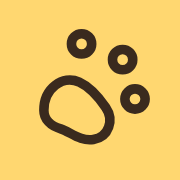
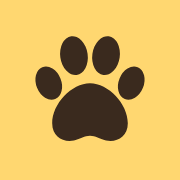
Ny logga och tassikon: klassisk fylld tass (alternativ 1)
Claude-Session: https://claude.ai/code/session_01V1fTqnpYU1gmCHHsLQa4s1

Changed region(s): [[0.1944, 0.1389, 0.8333, 0.8056]]

diff --git a/docs/app.js b/docs/app.js
@@ -83,8 +83,8 @@ function countrySel(id,val){const loc=S.lang==='en'?'en':'sv';const list=COUNTRI
 try{const l=localStorage.getItem('dh-lang');if(l==='en'||l==='sv')S.lang=l;const c=localStorage.getItem('dh-country');if(c&&COUNTRIES.some(x=>x.c===c))S.country=c}catch(e){}
 const t=k=>(T[k]?T[k][S.lang==='en'?1:0]:k);
 const today=()=>new Date().toISOString().slice(0,10);
-const emptyCard=(ti,su)=>`<div class="empty">${sz(paw,46).replace('stroke="#3A2A1E" stroke-opacity=".45"','stroke="#F4806B"')}<b>${ti}</b><span>${su}</span></div>`;
-const paw='<svg width="36" height="36" viewBox="0 0 24 24" fill="none" stroke="#3A2A1E" stroke-opacity=".45" stroke-width="1.7" stroke-linecap="round" stroke-linejoin="round" aria-hidden="true"><circle cx="10.5" cy="3.8" r="1.8"/><circle cx="17.8" cy="6.6" r="1.8"/><circle cx="20" cy="13.6" r="1.8"/><path d="M3.8 15.6c0-3.9 3.3-6.3 6.3-5 2 .9 3.6 2.9 4.7 4.5 1.5 2.2.6 5.2-2.2 5.7-2.3.4-4.2-1.4-5.8-1.9-1.8-.5-3-1.7-3-3.3z"/></svg>';
+const emptyCard=(ti,su)=>`<div class="empty">${sz(paw,46).replace('fill="#3A2A1E" fill-opacity=".45"','fill="#F4806B"')}<b>${ti}</b><span>${su}</span></div>`;
+const paw='<svg width="36" height="36" viewBox="5 6 54 52" fill="#3A2A1E" fill-opacity=".45" aria-hidden="true"><ellipse cx="14" cy="29" rx="5.5" ry="7.5" transform="rotate(-22 14 29)"/><ellipse cx="25" cy="17" rx="6" ry="8.5" transform="rotate(-8 25 17)"/><ellipse cx="39" cy="17" rx="6" ry="8.5" transform="rotate(8 39 17)"/><ellipse cx="50" cy="29" rx="5.5" ry="7.5" transform="rotate(22 50 29)"/><path d="M32 29c-8 0-16.5 9-16.5 17.5 0 6 5 8.5 9.5 7.5 3-.7 4.5-2 7-2s4 1.3 7 2c4.5 1 9.5-1.5 9.5-7.5C48.5 38 40 29 32 29z"/></svg>';
 const sz=(svg,n)=>svg.replace(/width="\d+" height="\d+"/,`width="${n}" height="${n}"`);
 const ic={back:'<svg width="22" height="22" viewBox="0 0 24 24" fill="none" stroke="#3A2A1E" stroke-width="2.2" stroke-linecap="round" stroke-linejoin="round"><path d="M15 5l-7 7 7 7"/></svg>',
 list:'<svg width="24" height="24" viewBox="0 0 24 24" fill="none" stroke="#7A6552" stroke-width="2" stroke-linecap="round"><path d="M4 7h16M4 12h16M4 17h10"/></svg>',
@@ -102,7 +102,7 @@ function langSw(){return `<div class="lang" role="group" aria-label="${esc(t('la
 function topbar(title,sub){return `<div class="top"><div class="brand"><span class="logo">${sz(paw,22).replace('.45','1')}</span>${t('appname')}</div>${langSw()}</div>${title?`<div class="pad"><h1>${esc(title)}</h1>${sub?`<p class="sub">${esc(sub)}</p>`:''}</div>`:''}`}
 function head(title,sub,back){return `<div class="top"><a class="back" href="${back}" aria-label="${esc(t('back'))}">${ic.back}</a>${langSw()}</div><div class="pad"><h1>${esc(title)}</h1>${sub?`<p class="sub">${esc(sub)}</p>`:''}</div>`}
 function nav(r){const n=S.unread;const a=(h,k,i,on)=>`<a href="#/${h}" class="${on?'on':''}">${i}${t(k)}</a>`;
-$('#navwrap').innerHTML=`<nav aria-label="Navigation">${a('','navLost',ic.list,r==='')}${a('mine','navMine',sz(paw,24).replace('.45','1').replace('1.6','2'),r==='mine'||r==='addpet'||r==='edit')}<a href="#/found" class="cam ${r==='found'||r==='results'?'on':''}"><span>${ic.cam}</span>${t('navFound')}</a><a href="#/messages" class="${r==='messages'||r==='chat'?'on':''}">${ic.msg}${n?`<i class="badge">${n}</i>`:''}${t('navMsg')}</a>${a('profile','navProfile',ic.user,r==='profile'||r==='login'||r==='reset')}</nav>`}
+$('#navwrap').innerHTML=`<nav aria-label="Navigation">${a('','navLost',ic.list,r==='')}${a('mine','navMine',sz(paw,26).replace('fill="#3A2A1E" fill-opacity=".45"','fill="currentColor"'),r==='mine'||r==='addpet'||r==='edit')}<a href="#/found" class="cam ${r==='found'||r==='results'?'on':''}"><span>${ic.cam}</span>${t('navFound')}</a><a href="#/messages" class="${r==='messages'||r==='chat'?'on':''}">${ic.msg}${n?`<i class="badge">${n}</i>`:''}${t('navMsg')}</a>${a('profile','navProfile',ic.user,r==='profile'||r==='login'||r==='reset')}</nav>`}
 const photoOf=p=>p.imgs&&p.imgs.length?`<img src="${esc(p.imgs[0])}" alt="${esc(p.name)}">`:paw;
 const tagOf=p=>`<span class="tag ${p.status==='lost'?'t-lost':p.status==='found'?'t-found':'t-reg'}">${t(p.status==='found'?'foundSt':p.status==='lost'?'lost':'registered')}</span>`;
 function petCard(p,extra){extra=extra||{};return `<a class="card ${extra.hl?'hl':''}" href="#/pet/${p.id}"><div class="ph">${photoOf(p)}</div><div class="grow"><div style="display:flex;justify-content:space-between;gap:8px;align-items:center"><span class="name">${esc(p.name)}</span>${extra.tag||tagOf(p)}</div><span class="muted">${esc(speciesName(p.species))} · ${esc(p.color)}</span><span style="font-size:14px;font-weight:700">${esc(p.place)}, ${esc(p.city)}</span><span class="muted">${esc(fmtDate(p.date))}</span>${extra.body||''}</div></a>`}

diff --git a/docs/index.html b/docs/index.html
@@ -1,6 +1,6 @@
 <!doctype html>
 <html lang="sv"><head><meta charset="utf-8"><meta name="viewport" content="width=device-width,initial-scale=1"><title>DjurHittaren</title><link rel="icon" type="image/svg+xml" href="favicon.svg"><link rel="apple-touch-icon" href="apple-touch-icon.png"><meta name="theme-color" content="#FFD770">
-<link rel="preconnect" href="https://fonts.googleapis.com"><link href="https://fonts.googleapis.com/css2?family=Nunito:wght@400;600;700;800&display=swap" rel="stylesheet"><link rel="stylesheet" href="style.css?v=33"></head>
+<link rel="preconnect" href="https://fonts.googleapis.com"><link href="https://fonts.googleapis.com/css2?family=Nunito:wght@400;600;700;800&display=swap" rel="stylesheet"><link rel="stylesheet" href="style.css?v=34"></head>
 <body><div id="app"></div><div id="navwrap"></div><noscript>JavaScript krävs / JavaScript required</noscript>
 <script src="https://cdn.jsdelivr.net/npm/@supabase/supabase-js@2"></script>
-<script src="config.js?v=33"></script><script src="db.js?v=33"></script><script src="app.js?v=33"></script></body></html>
+<script src="config.js?v=34"></script><script src="db.js?v=34"></script><script src="app.js?v=34"></script></body></html>
